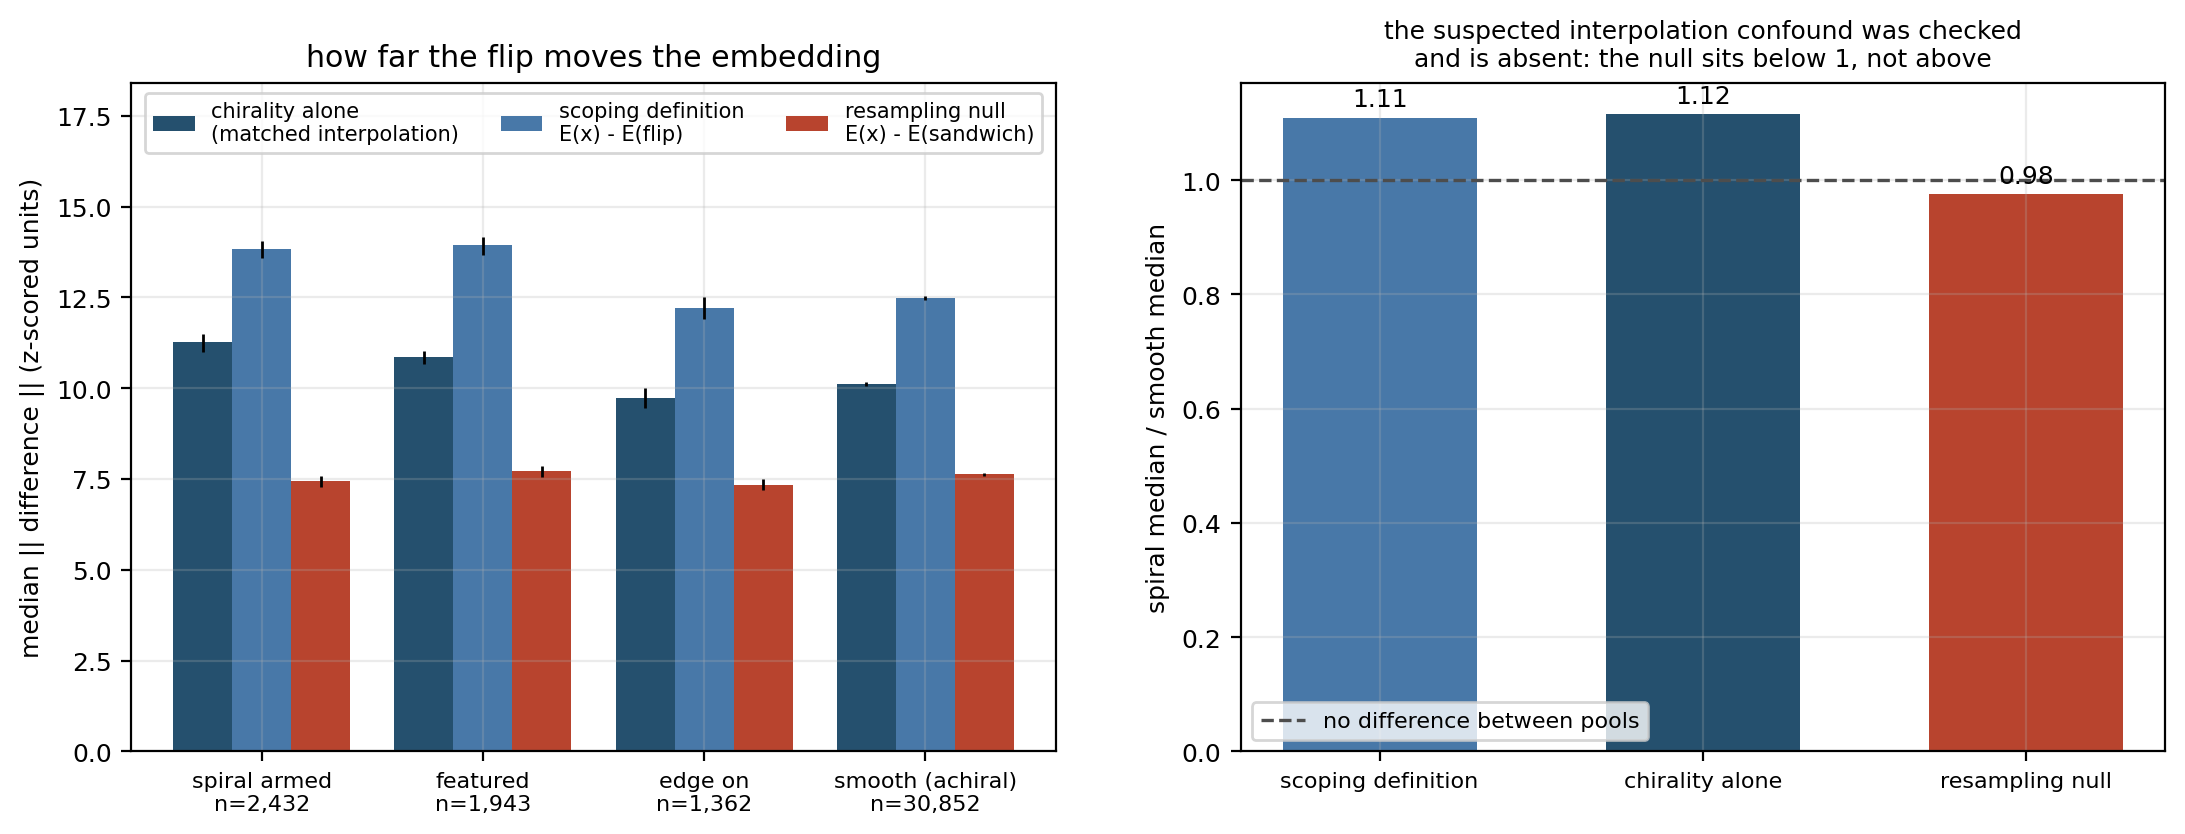
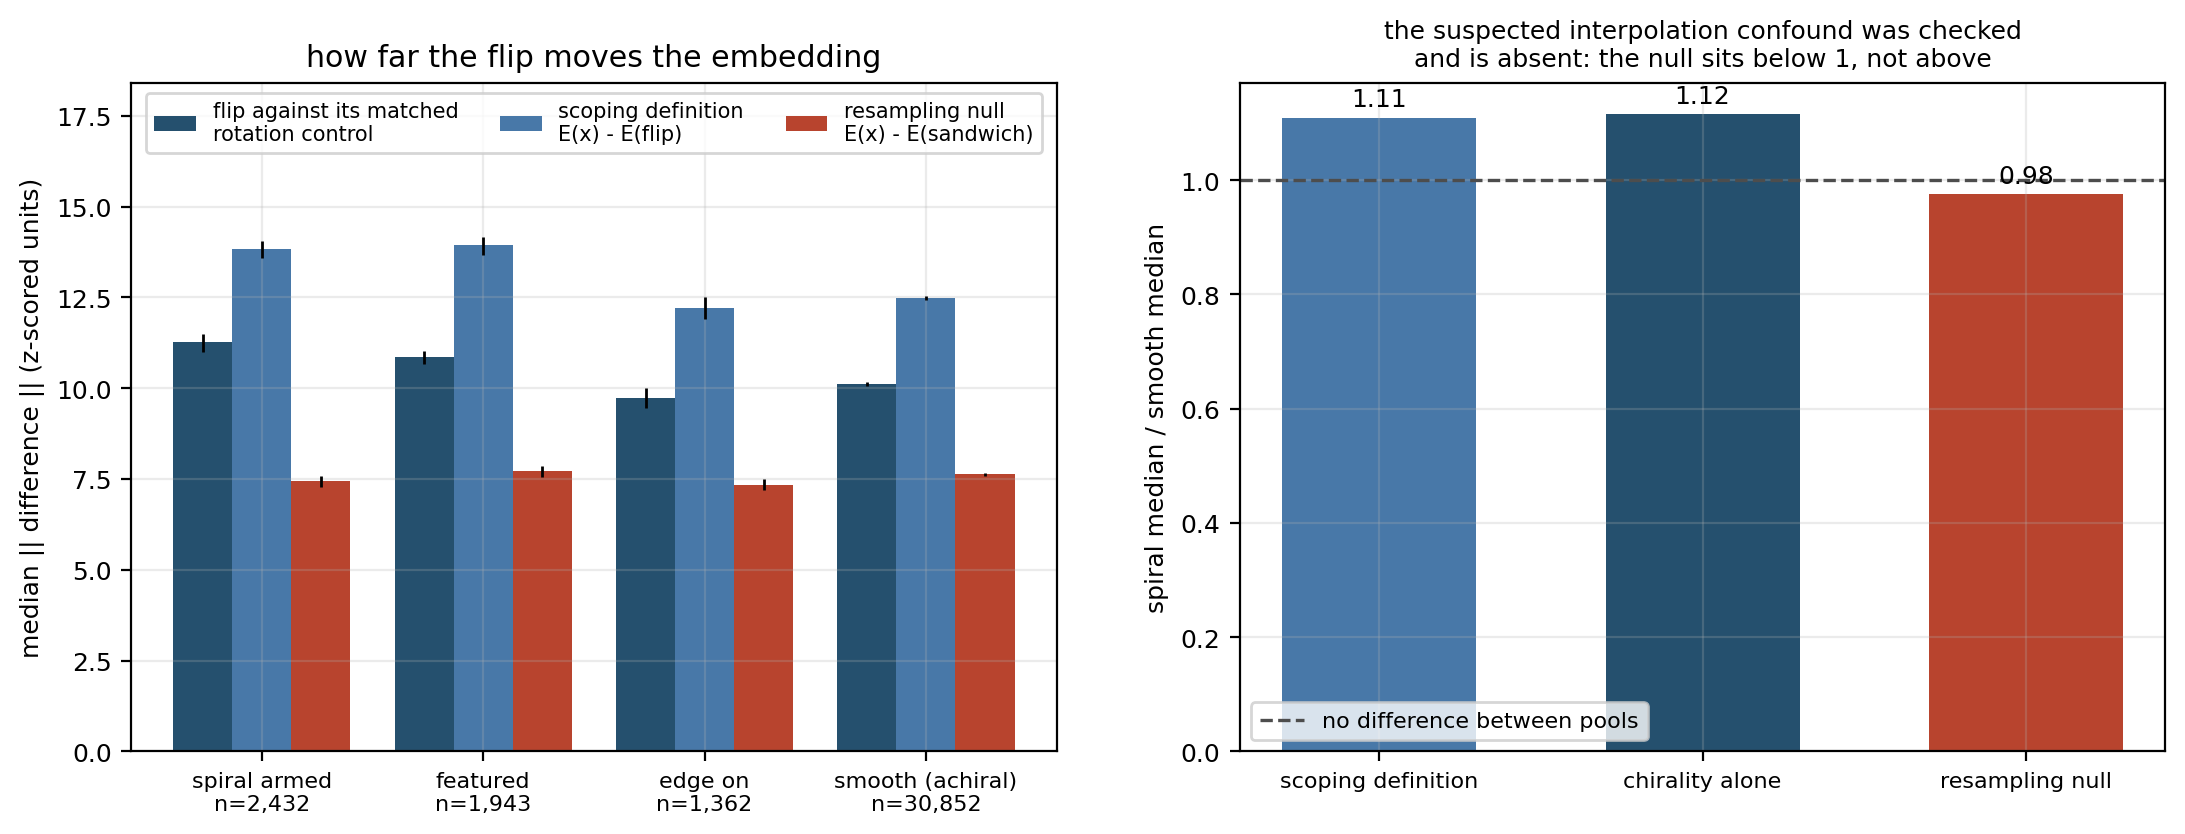
Test the antisymmetry identity and measure the encoder's resampling sensitivity

diff --git a/paper1/diagnostics/d3Chirality.py b/paper1/diagnostics/d3Chirality.py
@@ -64,6 +64,11 @@ TAGS = {"original": ("d3Original", "identity"),
         "majorflip": ("d3MajorFlip", "major_axis_flip"),
         "sandwich": ("d3Sandwich", "axis_sandwich")}
 
+# Applying each operator twice, used only to test the antisymmetry identity the scoping
+# document asserts. Optional: the diagnostic reports without them if they are absent.
+TWICE_TAGS = {"majorflip_twice": ("d3MajorFlipTwice", "major_axis_flip_twice"),
+              "sandwich_twice": ("d3SandwichTwice", "axis_sandwich_twice")}
+
 
 def population(df):
     """Every galaxy the operator is defined for: it needs a fitted major axis."""
@@ -251,6 +256,12 @@ def main():
     d_pure = z["sandwich"] - z["majorflip"]
     d_resamp = z["original"] - z["sandwich"]
 
+    # The scale every displacement below is judged against: how far apart two unrelated
+    # galaxies sit in the same z-scored space.
+    rng_scale = np.random.default_rng(C.SEED)
+    between = np.linalg.norm(z["original"][rng_scale.choice(n, 4000)]
+                             - z["original"][rng_scale.choice(n, 4000)], axis=1)
+
     pl = pools(df, idx)
     out = {"population": {
         "n": int(n), "definition": "every anchor galaxy with a defined position angle",
@@ -272,7 +283,13 @@ def main():
 
     kinds = {"d_spec": (d_spec, "E(x) - E(majorflip(x)), the scoping document's definition"),
              "EXTENSION_d_pure": (d_pure, "E(sandwich(x)) - E(majorflip(x)); both sides carry "
-                                          "identical resampling, so this is chirality alone"),
+                                          "the same NUMBER of rotations, which removes the "
+                                          "systematic resampling difference but not the "
+                                          "stochastic one, since the two paths land on "
+                                          "different pixel grids. See "
+                                          "EXTENSION_resampling_sensitivity: its absolute size "
+                                          "is mostly resampling, and only differences between "
+                                          "matched objects are interpretable"),
              "NULL_d_resampling": (d_resamp, "E(x) - E(sandwich(x)); the same procedure with a "
                                              "rotation instead of a flip, so it carries the "
                                              "resampling and no parity inversion")}
@@ -300,6 +317,66 @@ def main():
         "reading": ("a ratio above 1 in the resampling row is the confound measured directly; "
                     "the d_pure row is the same comparison with that confound removed")}
 
+    # The scoping document asserts that the difference vector is "antisymmetric by
+    # construction", d(majorflip(x)) = -d(x). That holds only if the flip is an involution
+    # THROUGH THE ENCODER, which the pixel-space test cannot establish. Adding the two
+    # differences gives
+    #     d(x) + d(flip(x)) = E(x) - E(flip(flip(x)))
+    # so the residual of the identity is the distance between the original encode and the
+    # twice-flipped one. That distance also carries four interpolations, so it is reported
+    # beside the same quantity for four rotations with no flip, which is its floor.
+    twice = {k: E.cached(t, params_for(o, n)) for k, (t, o) in TWICE_TAGS.items()}
+    if all(v is not None for v in twice.values()):
+        zt = {k: ((v - mu) / sd).astype(np.float32) for k, v in twice.items()}
+        resid = z["original"] - zt["majorflip_twice"]
+        floor = z["original"] - zt["sandwich_twice"]
+        allm = np.ones(n, bool)
+        r_med = float(np.median(np.linalg.norm(resid, axis=1)))
+        f_med = float(np.median(np.linalg.norm(floor, axis=1)))
+        out["EXTENSION_antisymmetry"] = {
+            "identity": "d(majorflip(x)) = -d(x), asserted by the scoping document",
+            "derivation": ("adding the two differences gives d(x) + d(flip(x)) = E(x) - "
+                           "E(flip(flip(x))), so the residual of the identity is the distance "
+                           "between the original encode and the twice-flipped one"),
+            "residual": {k: norm_stats(resid, m) for k, (m, _) in pl.items()},
+            "matched_floor_four_rotations_no_flip": {k: norm_stats(floor, m)
+                                                     for k, (m, _) in pl.items()},
+            "residual_over_floor": r_med / f_med,
+            "residual_over_d_spec": r_med / float(np.median(np.linalg.norm(d_spec, axis=1))),
+            "pixel_space_involution": ("verified separately in tests/testMajorAxisFlip.py, "
+                                       "correlation above 0.999 against the control applied twice"),
+            "reading": ("a residual at the floor means the identity holds as exactly as four "
+                        "interpolations allow, and the excess over the floor is what the flip "
+                        "itself fails to undo. A residual small against d_spec means the "
+                        "identity is good relative to the quantity being measured")}
+
+        # How much of any of these differences is the encoder simply reacting to resampling?
+        # Two rotations displace the embedding by one amount; four displace it by another. If
+        # each resampling contributes an independent displacement the second should be about
+        # sqrt(2) times the first, and d_pure, which compares two DIFFERENT two-rotation
+        # states, should be about sqrt(2) times the two-rotation displacement as well.
+        two = float(np.median(np.linalg.norm(d_resamp, axis=1)))
+        four = f_med
+        pure = float(np.median(np.linalg.norm(d_pure, axis=1)))
+        out["EXTENSION_resampling_sensitivity"] = {
+            "displacement_two_rotations": two,
+            "displacement_four_rotations": four,
+            "ratio_four_over_two": four / two,
+            "sqrt_two": float(np.sqrt(2.0)),
+            "d_pure_median": pure,
+            "independent_resampling_prediction_for_d_pure": float(np.sqrt(2.0) * two),
+            "d_pure_over_that_prediction": pure / (np.sqrt(2.0) * two),
+            "displacement_as_fraction_of_between_galaxy_distance":
+                four / float(np.median(between)),
+            "reading": (
+                "the encoder is strongly sensitive to resampling. Four bilinear rotations that "
+                "return an image almost exactly to itself still move the embedding by nearly "
+                "as much as the quantities this diagnostic measures. d_pure compares two "
+                "different two-rotation states and lands close to what two independent "
+                "resampling draws would give, so its ABSOLUTE size is mostly resampling and "
+                "not chirality. Only differential comparisons, where the same resampling "
+                "applies to both sides, are interpretable, which is why the matched-pair "
+                "result and not the pooled magnitude carries the conclusion")}
     out["axis_statistic_calibration"] = calibrate_axis_statistic()
     out["single_axis"] = {k: axis_structure(d_pure, m) for k, (m, _) in pl.items()}
     out["single_axis_NULL_resampling"] = {k: axis_structure(d_resamp, pl[k][0])
@@ -408,8 +485,6 @@ def main():
     rng_p = np.random.default_rng(C.SEED)
     perm = [float(np.median(np.where(rng_p.random(len(delta)) < 0.5, -delta, delta)))
             for _ in range(200)]
-    between = np.linalg.norm(
-        z["original"][rng_p.choice(n, 4000)] - z["original"][rng_p.choice(n, 4000)], axis=1)
     sweep = []
     for thr in (0.0, C.ELLIP_CUT, 0.4):
         m = ellip > thr

diff --git a/paper1/diagnostics/d3ChiralityFigures.py b/paper1/diagnostics/d3ChiralityFigures.py
@@ -26,7 +26,7 @@ BLUE, RED, MID, GREEN, GREY = "#25506e", "#b8442e", "#4878a8", "#5a8f4a", "#8a8a
 POOLS = ["spiral_armed", "featured", "edge_on", "smooth"]
 LABEL = {"spiral_armed": "spiral armed", "featured": "featured", "edge_on": "edge on",
          "smooth": "smooth (achiral)", "all": "all"}
-KINDS = [("EXTENSION_d_pure", "chirality alone\n(matched interpolation)", BLUE),
+KINDS = [("EXTENSION_d_pure", "flip against its matched\nrotation control", BLUE),
          ("d_spec", "scoping definition\nE(x) - E(flip)", MID),
          ("NULL_d_resampling", "resampling null\nE(x) - E(sandwich)", RED)]
 

diff --git a/paper1/techReportPaperScopingV1.md b/paper1/techReportPaperScopingV1.md
@@ -520,8 +520,10 @@ Three conditions were encoded through the frozen model over the full population,
 | symbol | definition | what it contains |
 |---|---|---|
 | d_spec | E(x) - E(flip(x)) | the scoping document's definition: chirality plus the resampling |
-| d_pure | E(sandwich(x)) - E(flip(x)) | both sides resampled identically, so the flip alone |
+| d_pure | E(sandwich(x)) - E(flip(x)) | both sides carry the same number of rotations |
 | d_resampling | E(x) - E(sandwich(x)) | the resampling alone, and the declared null |
+
+Section 6.7 shows that d_pure is **not** the flip alone, which was the intention behind it. Giving both sides the same number of rotations removes the systematic part of the resampling but not the stochastic part, because the two paths land on different pixel grids. Its absolute size is therefore mostly resampling, and only comparisons between matched objects, where the same resampling applies to both sides, carry a conclusion. That is why the matched-pair result below and not the pooled magnitude is the finding.
 
 ### 6.4 Does a parity inversion move the representation more for chiral objects
 
@@ -591,7 +593,43 @@ That a dominant axis exists at all is not evidence to the contrary, and the arti
 
 The flip is about the **catalog** major axis, whose uncertainty grows as an object becomes round, and flipping about an axis that is wrong by an angle rotates the object by twice that angle. The leak falls by a factor of nearly five across the range while the difference norm barely moves, and the rank correlation between the two is only +0.120 [0.078, 0.159] in the spiral pool and +0.053 [0.042, 0.064] in the smooth pool. The displacement being measured is therefore not mostly orientation, but the leak is a real limit on how cleanly the operator isolates chirality for round objects, which are exactly the ones whose arms are most visible. [measured; the attribution to catalog angle error is interpreted]
 
-### 6.7 Nulls
+### 6.7 The antisymmetry identity, and what it revealed about the encoder
+
+The scoping document states that the difference vector is "antisymmetric by construction", meaning d(flip(x)) = -d(x). That follows if the flip is an involution, which it is in pixel space: `tests/testMajorAxisFlip.py` verifies it to a correlation above 0.999. Whether it survives the **encoder** is a different question, and it was asserted rather than measured. Adding the two differences gives
+
+> d(x) + d(flip(x)) = E(x) - E(flip(flip(x)))
+
+so the residual of the identity is the distance between the original encode and the twice-flipped one. Two further conditions were encoded over the full population to measure it, along with the same four rotations carrying no flip, which is its floor.
+
+| quantity | median |
+|---|---|
+| antisymmetry residual, E(x) against the twice-flipped encode | 11.232 [11.199, 11.266] |
+| matched floor, four rotations with no flip | 10.149 [10.112, 10.182] |
+| ratio of the two | 1.107 |
+| the residual as a fraction of d_spec | 0.885 |
+
+The identity does **not** hold in embedding space. The residual is 88.5 per cent of the size of the quantity the diagnostic measures. But the reason is not that the flip fails to undo itself: the floor is 10.149, so almost all of the residual is present when no flip happens at all. [measured]
+
+**That floor is the substantive finding.** Four bilinear rotations that return an image almost exactly to where it started still move the embedding by 10.149, which is **23.3 per cent of the distance between two unrelated galaxies**. The encoder is strongly sensitive to resampling.
+
+| displacement | median | note |
+|---|---|---|
+| two rotations | 7.587 | |
+| four rotations | 10.149 | ratio to two rotations 1.338, against 1.414 if each resampling contributed independently |
+| d_pure | 10.352 | |
+| two independent resampling draws would give | 10.730 | d_pure reaches **0.965** of this |
+
+So d_pure, which compares two different two-rotation states, lands within four per cent of what two independent resampling draws alone would produce. Its absolute magnitude is therefore mostly the encoder reacting to interpolation, not chirality. [measured; the attribution is interpreted, and rests on the four-rotation floor]
+
+Three consequences, stated because they qualify the rest of this section.
+
+First, the pooled magnitudes in Section 6.4 cannot be read as chirality. Only the matched-pair comparison carries a conclusion, because there the same resampling applies to both members and the resampling-only control is measured on the same pairs.
+
+Second, it explains the otherwise puzzling result in Section 6.5. The leading axis of d_pure is stronger in the achiral pools than the chiral one, which was hard to interpret; if most of d_pure is resampling response, then most of the structure that analysis found is resampling structure, and there is no reason for it to be weaker where there is no handedness.
+
+Third, it qualifies every diagnostic that intervenes by interpolating, which is this one and Diagnostics 5 and 9. Any such measurement carries a resampling displacement of this size, and designs that compare an interpolated condition against a non-interpolated one will be dominated by it.
+
+### 6.8 Nulls
 
 | null | type | result | analytic expectation |
 |---|---|---|---|
@@ -601,13 +639,15 @@ The flip is about the **catalog** major axis, whose uncertainty grows as an obje
 
 All three behave as they should. The random-direction null reproduces its analytic value, and the rotation null shows no chiral excess on either the pooled or the paired comparison. [measured]
 
-### 6.8 What the result does and does not establish
+### 6.9 What the result does and does not establish
 
 Established, on this substrate and this population: a parity inversion applied to the input **moves the representation measurably more for galaxies with spiral arms than for otherwise identical galaxies without them**, by 19.4 per cent on matched pairs with a sign test at p = 1.6e-33, while the same pairs under an operation that resamples identically but inverts nothing move the other way. Parity-odd information therefore survives in the frozen embedding rather than having been discarded. The ordering across pools follows the physics: arms above featured-without-arms, and edge-on discs, whose handedness is not resolvable, at the bottom.
 
 Not established, and the scoping document expected it might be: **handedness is not encoded as a single direction**. The leading axis of the difference is stronger in achiral pools than chiral ones, only a quarter of the difference lies along it, and the projections are unimodal. The self-supervised handedness label the design hoped to extract does not exist in this representation, and this diagnostic does not deliver one.
 
-Two limits on the positive result. The matched control equalises ellipticity, brightness and angular size, but not the amount of resolved internal structure; a galaxy with arms has more structure that is asymmetric about its major axis than a smooth galaxy of the same size, so the measurement cannot fully separate "the model encodes handedness" from "the model responds to asymmetry about the major axis, of which arms are the main kind". Because the single-axis test fails, nothing here distinguishes those two readings, and the weaker one is what is claimed. And the operator flips about the catalog axis, so for round objects it inverts parity about a slightly wrong line, which the orientation leak quantifies at up to 15 degrees in the roundest bin.
+Also established, and not anticipated by the design: **the frozen encoder is strongly sensitive to resampling**. Four bilinear rotations returning an image almost exactly to itself move the embedding 23.3 per cent of the way to an unrelated galaxy. This is why the pooled magnitudes here carry no conclusion on their own, why the leading-axis structure appears in achiral pools too, and why the antisymmetry identity the scoping document treats as automatic fails in embedding space while holding in pixel space. It also sets a floor for Diagnostics 5 and 9, which intervene by interpolating.
+
+Three limits on the positive result. The matched control equalises ellipticity, brightness and angular size, but not the amount of resolved internal structure; a galaxy with arms has more structure that is asymmetric about its major axis than a smooth galaxy of the same size, so the measurement cannot fully separate "the model encodes handedness" from "the model responds to asymmetry about the major axis, of which arms are the main kind". Because the single-axis test fails, nothing here distinguishes those two readings, and the weaker one is what is claimed. The operator flips about the catalog axis, so for round objects it inverts parity about a slightly wrong line, which the orientation leak quantifies at up to 15 degrees in the roundest bin. And the excess is measured against a resampling background of comparable size, so it is a differential result and would not survive being restated as an absolute one.
 
 No external handedness catalogue was used. The scoping document marks that validation optional, and none is held locally.
 
@@ -763,6 +803,9 @@ One row per claim, with its section, key numbers, evidential tier and artifact. 
 | 28 | Handedness is NOT encoded as a single direction, so no self-supervised label exists | 6.5 | leading variance fraction 0.2409 for spirals against 0.2966 for the achiral pool; only 0.245 of the difference lies along it; projections unimodal | input-space causal | d3Chirality.json |
 | 29 | The chirality axis and the resampling axis are essentially orthogonal | 6.6 | cosine 0.0154 | input-space causal | d3Chirality.json |
 | 30 | The operator's isolation degrades for round objects, because it flips about the catalog axis | 6.6 | readout shift 15.392 deg in the roundest bin falling to 3.310 deg above ellipticity 0.3; not chirality specific, since the achiral pool leaks 5.577 deg | input-space causal | d3Chirality.json |
+| 31 | The frozen encoder is strongly sensitive to resampling | 6.7 | four rotations returning an image almost to itself move the embedding 10.149, which is 23.3 per cent of the distance between two unrelated galaxies | input-space causal | d3Chirality.json |
+| 32 | The antisymmetry the scoping document treats as automatic holds in pixel space but not in embedding space | 6.7 | residual 11.232 against a four-rotation floor of 10.149, ratio 1.107, and 0.885 of d_spec; pixel-space involution verified above 0.999 correlation | input-space causal | d3Chirality.json |
+| 33 | The absolute size of the flip difference is mostly resampling, so only matched differentials are interpretable | 6.7 | d_pure 10.352 against 10.730 for two independent resampling draws, reaching 0.965 of it | input-space causal | d3Chirality.json |
 
 ---
 
